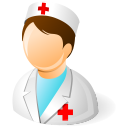
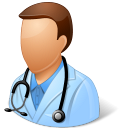
[Kevin] Dans home image homme ou femme en foncton du sexe

diff --git a/ClientMinuteMed/Application/MinuteMed/src/app/home/home.component.html b/ClientMinuteMed/Application/MinuteMed/src/app/home/home.component.html
@@ -6,7 +6,10 @@
       <!--<div id='calendar'></div>-->
 
       <div id="left-menu">
-        <p id="doctor"><img src="assets/doctor.png"/></p><br>
+        <p id="doctor">
+          <a *ngIf="me.gender == 'M'"><img src="assets/doctor.png"/></a>
+          <a *ngIf="me.gender == 'F'"><img src="assets/nurse.png"/></a>
+        </p><br>
         <p>
           <a *ngIf="me.status == 'DOCTOR'">- Docteur {{me.lastName}} {{me.firstName}}</a>
           <a *ngIf="me.status == 'NURSE'">- Infirmier {{me.lastName}} {{me.firstName}}</a>

diff --git a/ClientMinuteMed/Application/MinuteMed/src/app/home/home.component.css b/ClientMinuteMed/Application/MinuteMed/src/app/home/home.component.css
@@ -27,6 +27,7 @@
     padding-bottom: 40px;
     font-size: 20px;
     color: white;
+    border-radius: 10px;
 }
 
 #text-content
